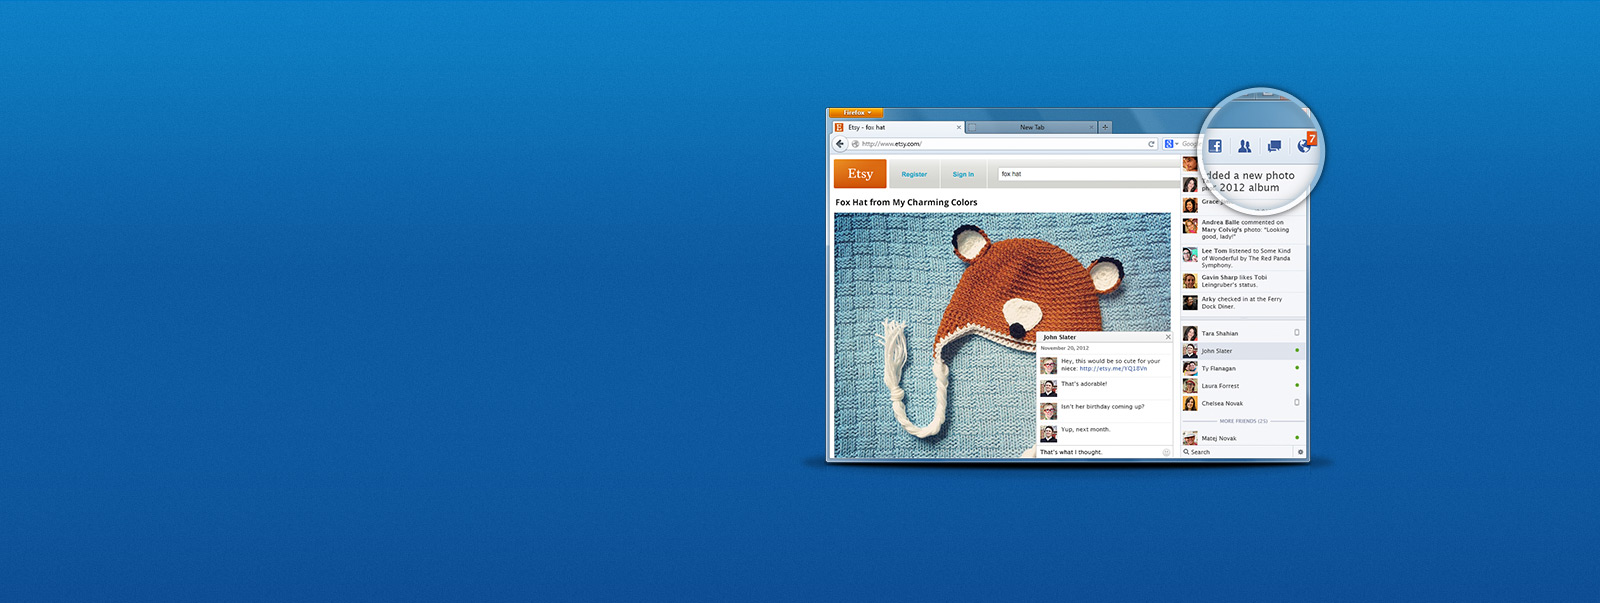
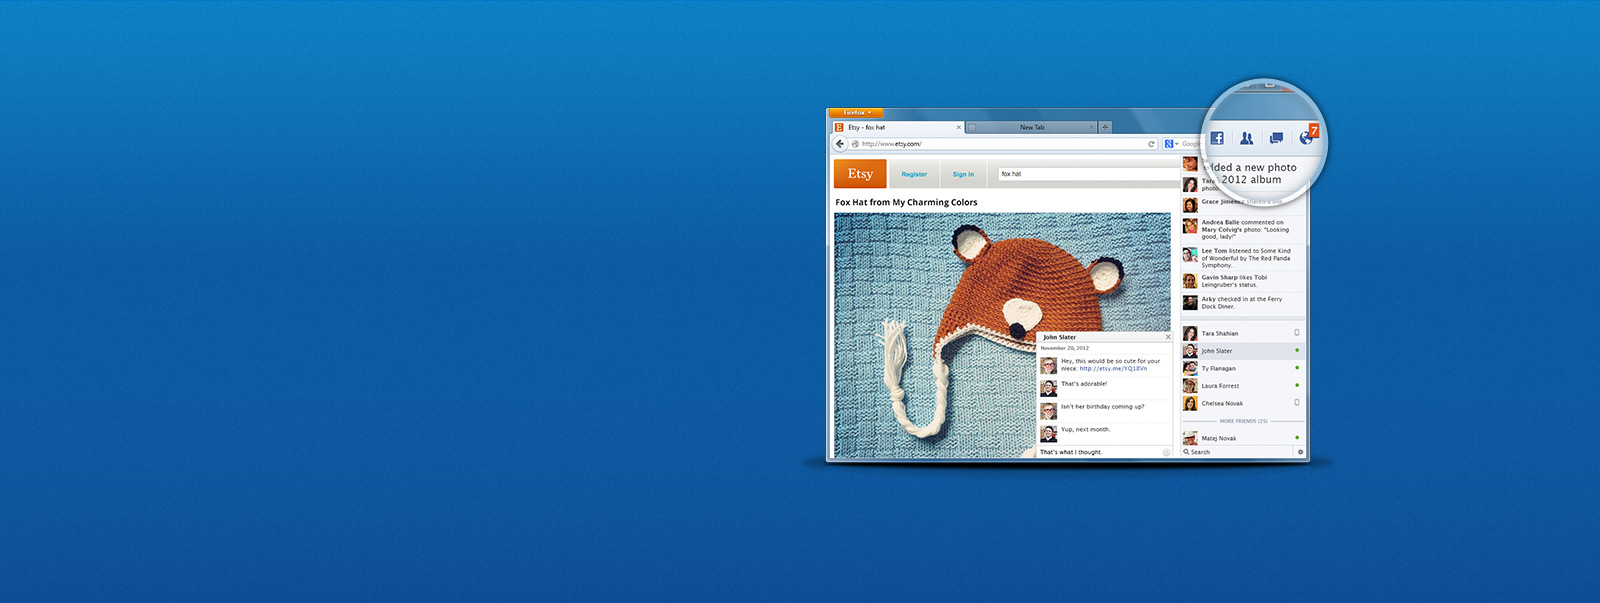
Update screenshot and add Mac screenshot Bug 808570

Changed region(s): [[0.75, 0.1194, 0.8438, 0.3582]]

diff --git a/media/css/firefox/facebookmessenger.less b/media/css/firefox/facebookmessenger.less
@@ -4,14 +4,18 @@
     background: #fff;
 }
 
-#wrapper,
-.sky #wrapper {
+#wrapper {
     background: url(/media/img/firefox/facebookmessenger/bg.jpg) 50% 0 no-repeat;
     background: url(/media/img/firefox/facebookmessenger/bg.jpg) 50% 0 no-repeat,
                 url(/media/img/firefox/facebookmessenger/bg-repeat.jpg) 0 0 repeat-x;
     background-color: #09559c;
     width: 100%;
     min-height: 500px;
+}
+
+.osx #wrapper {
+    background: url(/media/img/firefox/facebookmessenger/bg-mac.jpg) 50% 0 no-repeat,
+                url(/media/img/firefox/facebookmessenger/bg-repeat.jpg) 0 0 repeat-x;
 }
 
 
@@ -164,8 +168,7 @@ ul#benefits li span {
 /* Mobile layout: 320px */
 @media only screen and (max-width: @breakTablet) {
 
-    #wrapper,
-    .sky #wrapper {
+    #wrapper {
         background: url(/media/img/firefox/facebookmessenger/bg-repeat.jpg) 0 0 repeat-x;
     }
 
